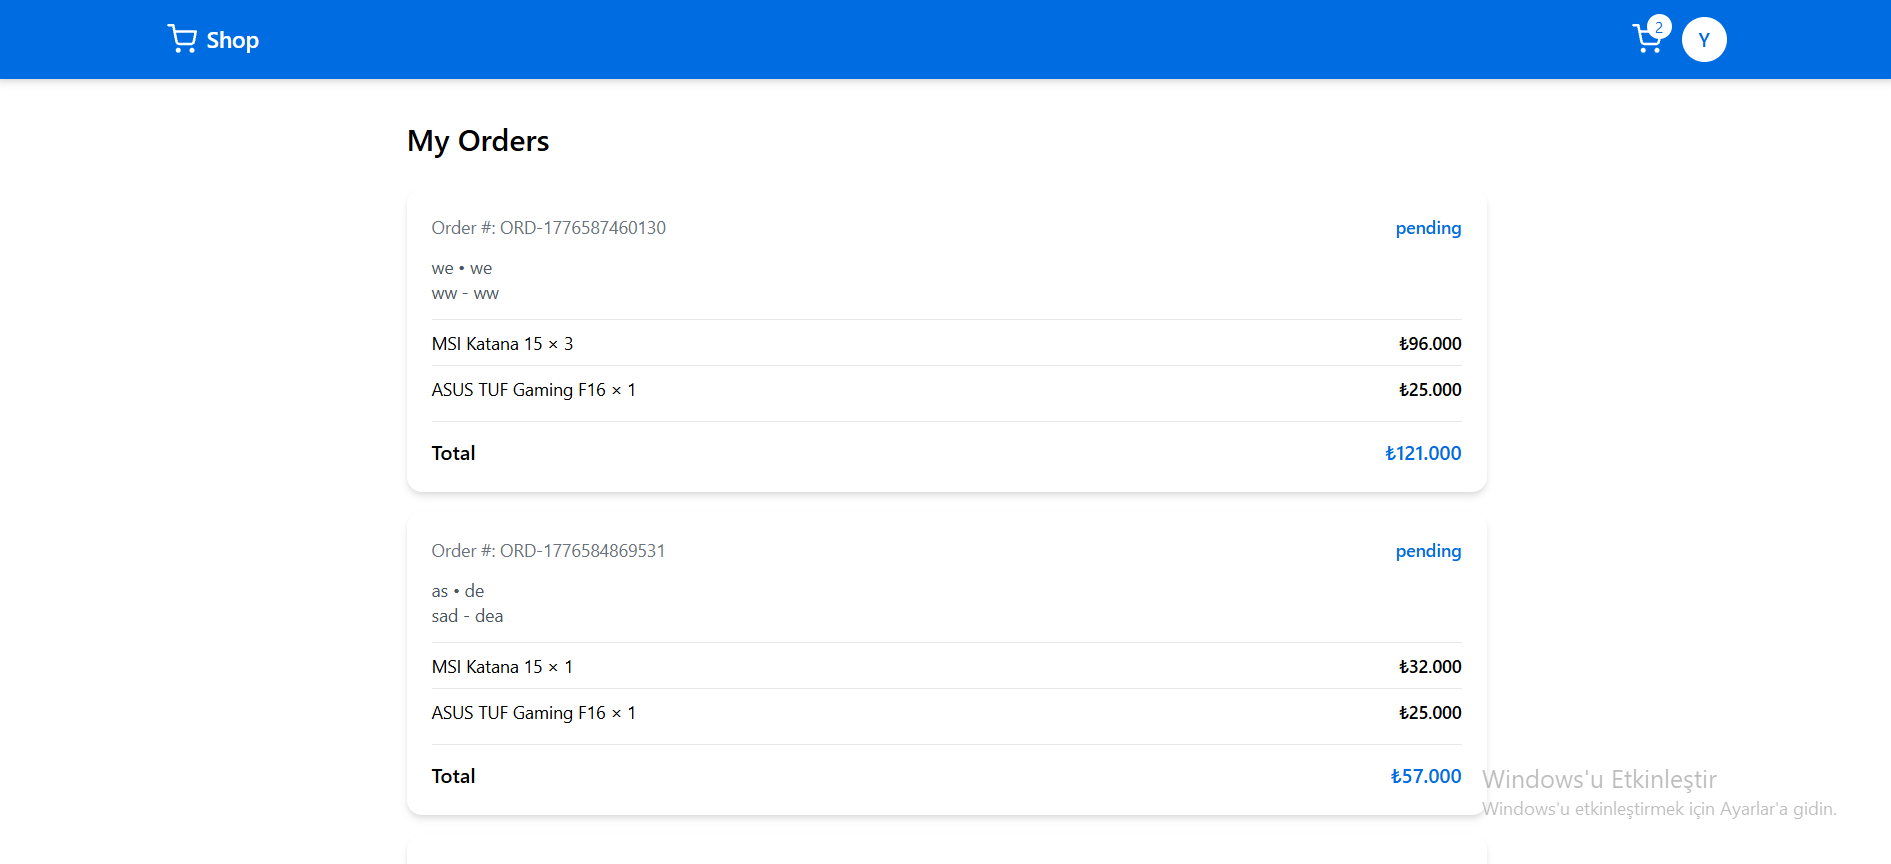
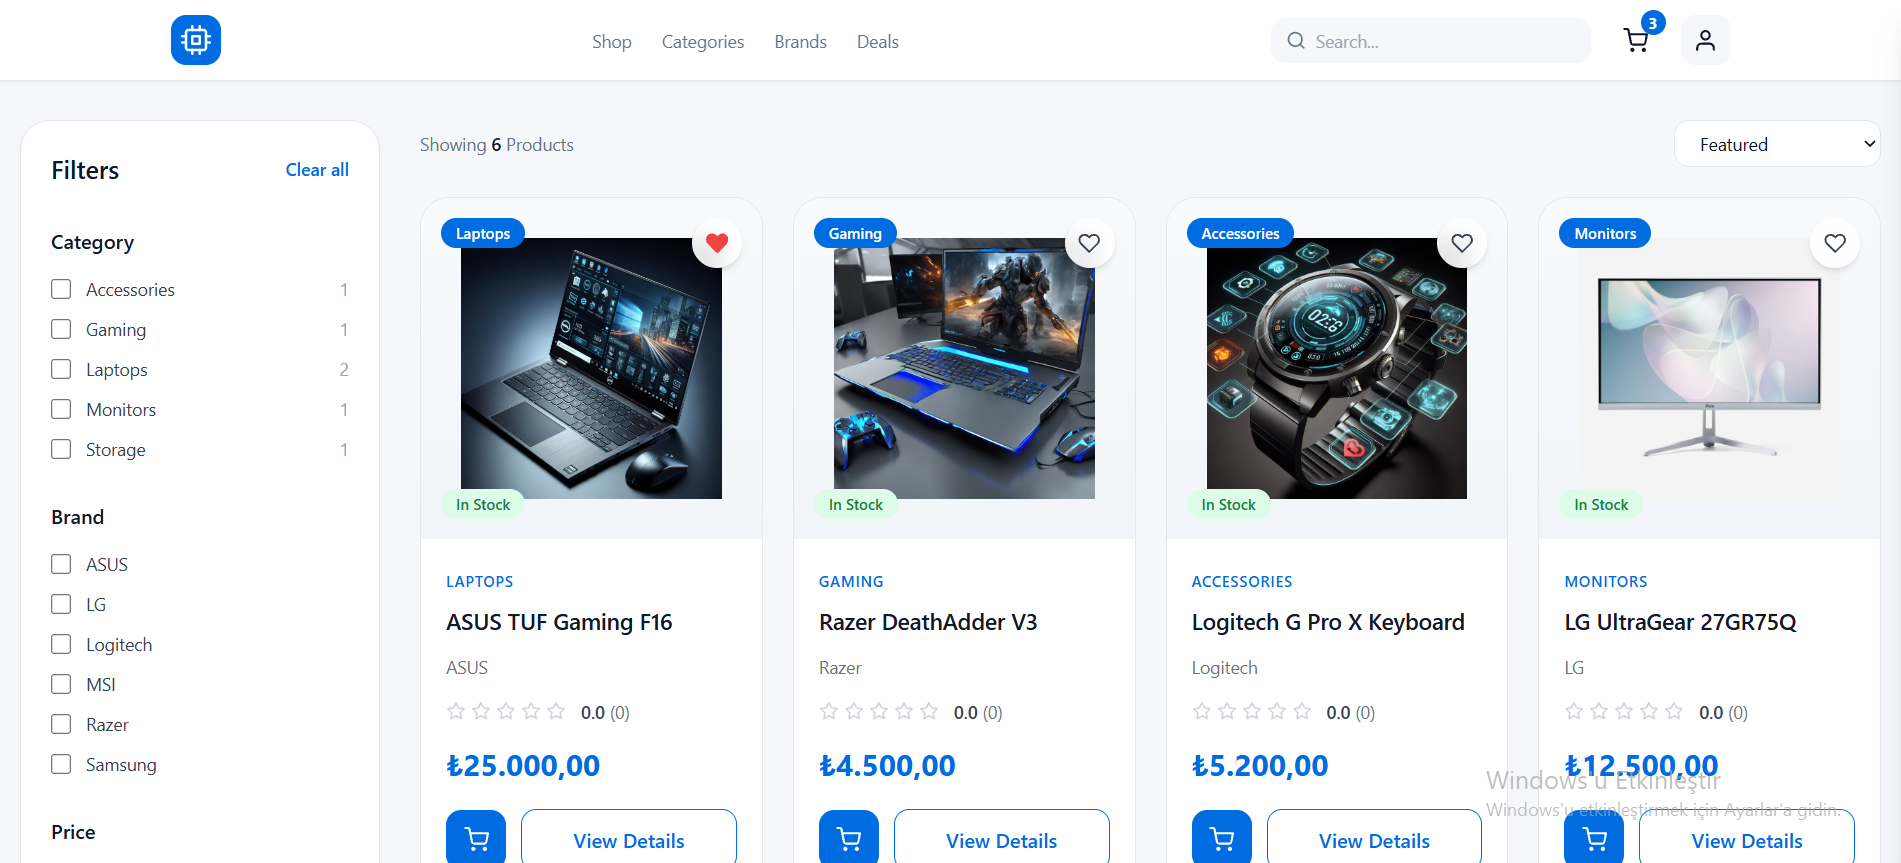
feat(portfolio): update Novatech Store project details

diff --git a/src/data/Projects.js b/src/data/Projects.js
@@ -179,7 +179,7 @@ export const projects = [
   },
 
   {
-    company: "E-Commerce Web Application",
+    company: "Novatech Store",
     role: {
       en: "Personal Full Stack Project (Ongoing)",
       tr: "Kişisel Full Stack Projesi (Devam Ediyor)",
@@ -203,29 +203,38 @@ export const projects = [
     ],
     tech: [
       "React",
+      "TypeScript",
       "Node.js",
-      "Express",
+      "Express.js",
       "MongoDB",
-      "REST API",
       "Tailwind CSS",
+      "REST API",
+      "JWT",
     ],
+
     description: {
       en: [
-        "Built a full-stack e-commerce application with authentication (register/login), product listing, and product detail pages.",
-        "Implemented cart functionality including add, update quantity, and remove item features.",
-        "Started checkout flow with basic address information collection.",
-        "Developed RESTful APIs using Node.js and Express.",
-        "Managed data with MongoDB (users, products, cart).",
-        "Built a responsive frontend using React and Tailwind CSS.",
+        "Developed a full-stack e-commerce application with JWT authentication and role-based authorization.",
+        "Implemented product listing, dynamic product detail pages, wishlist, shopping cart, checkout flow and order management.",
+        "Built advanced product filtering and sorting by category, brand, availability, price, popularity and newest products.",
+        "Designed a responsive user interface with reusable React components, skeleton loading states and custom SVG animations.",
+        "Developed secure RESTful APIs using Express.js, MongoDB, Helmet, Rate Limiting and Zod validation.",
+        "Currently redesigning the admin dashboard with modern analytics and management features.",
       ],
+
       tr: [
-        "Kimlik doğrulama (kayıt/giriş), ürün listeleme ve ürün detay sayfaları içeren full-stack bir e-ticaret uygulaması geliştirdim.",
-        "Sepete ekleme, miktar güncelleme ve ürün silme özelliklerini implemente ettim.",
-        "Temel adres bilgisi toplama ile checkout akışını başlattım.",
-        "Node.js ve Express kullanarak RESTful API geliştirdim.",
-        "Kullanıcı, ürün ve sepet verilerini MongoDB ile yönettim.",
-        "React ve Tailwind CSS ile responsive frontend geliştirdim.",
+        "JWT tabanlı kimlik doğrulama ve rol bazlı yetkilendirme içeren full-stack bir e-ticaret uygulaması geliştirdim.",
+        "Ürün listeleme, dinamik ürün detay sayfaları, favoriler, sepet, checkout akışı ve sipariş yönetimi özelliklerini geliştirdim.",
+        "Kategori, marka, stok durumu, fiyat, popülerlik ve yeniliğe göre gelişmiş filtreleme ve sıralama özellikleri ekledim.",
+        "Yeniden kullanılabilir React bileşenleri, skeleton loading ekranları ve özel SVG animasyonları ile responsive bir kullanıcı arayüzü tasarladım.",
+        "Express.js, MongoDB, Helmet, Rate Limiting ve Zod kullanarak güvenli RESTful API'ler geliştirdim.",
+        "Modern analiz ve yönetim özelliklerine sahip yeni bir Admin Dashboard üzerinde geliştirmelere devam ediyorum.",
       ],
+    },
+
+    links: {
+      live: "https://ecommerce-frontend-lyart-one.vercel.app/",
+      github: "https://github.com/dania8shaghouri/e-commerce",
     },
     screenshots: [eco1, eco2, eco3],
   },